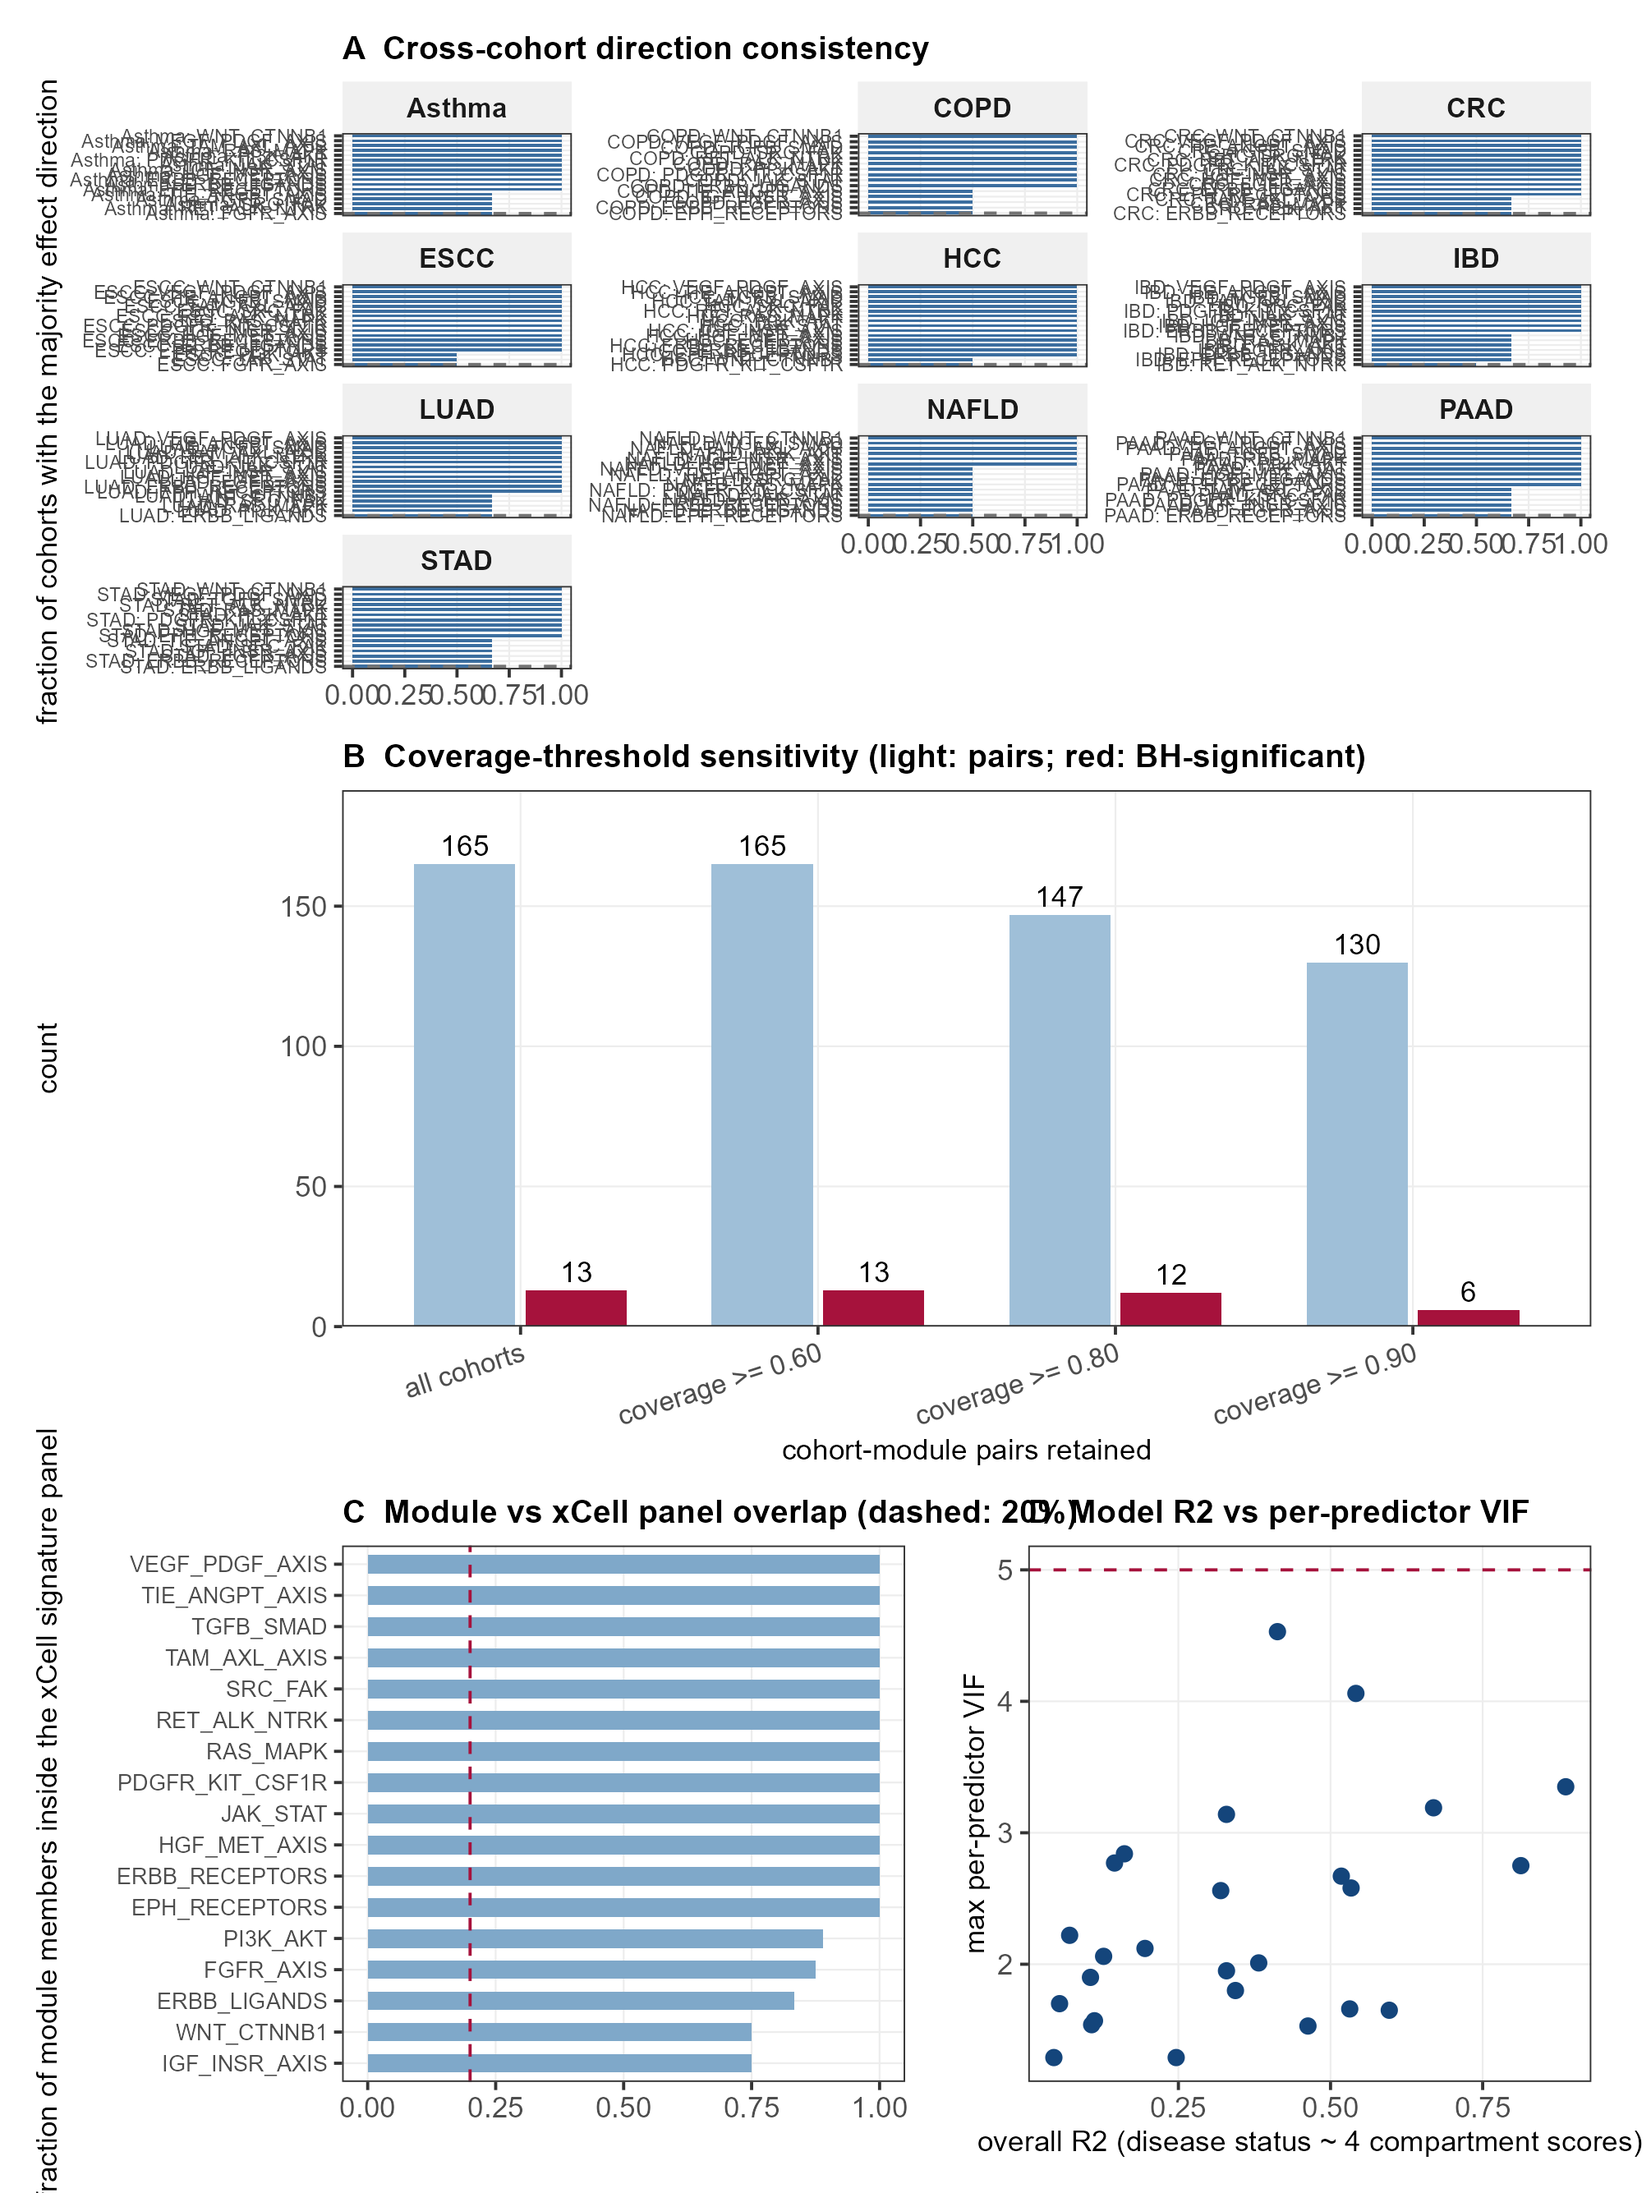
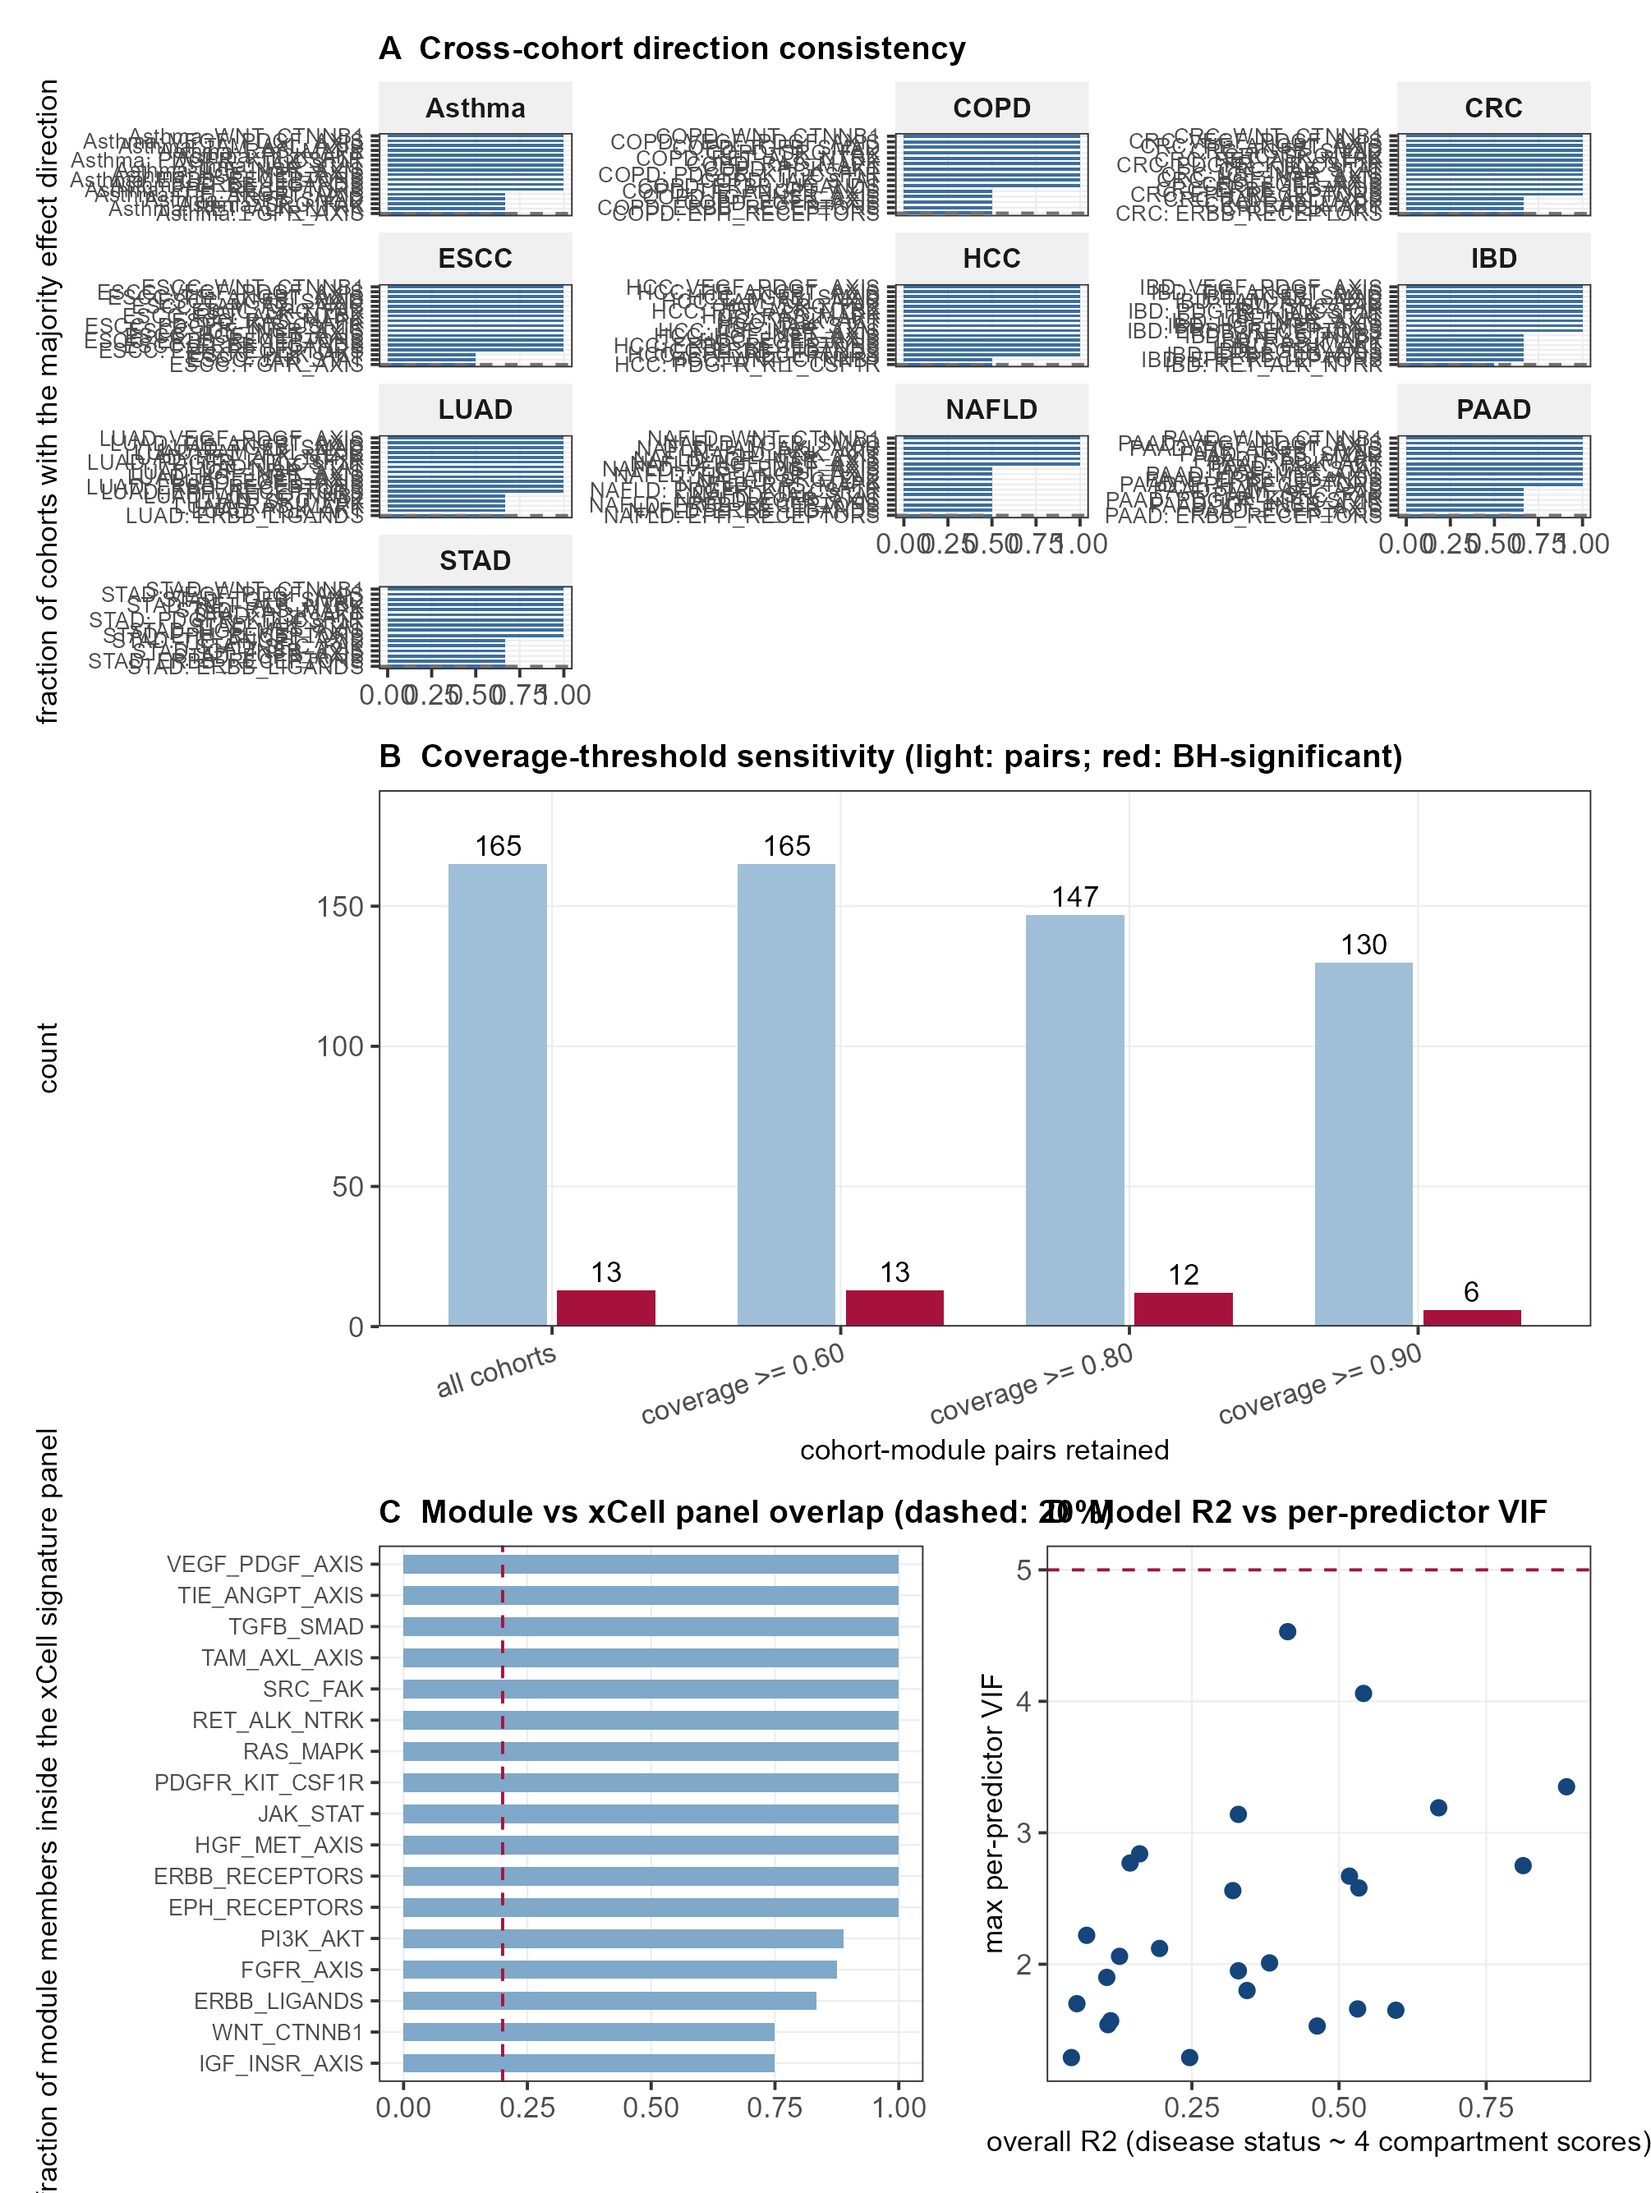
v13.1: fixes from three independent cold reviews - sorted medians, harmonised mutation denominators, CELLxGENE verification record corrected, two-pass checksums (LF, sha256sum -c clean), example 2 made runnable with regenerated expected output, score-level reproducibility table, package self-suffici

diff --git a/manuscript/DataDescriptor_v13.md b/manuscript/DataDescriptor_v13.md
@@ -20,7 +20,7 @@ This resource performs that curation once, documents it, and quantifies how far 
 *Validation rules and thresholds.* Reported checks use explicit rules (Supplementary Table S5): common-gene sensitivity uses the module members present in every cohort, flags a module when the effect direction disagrees with full-member scoring in at least 20% of cohorts, and marks it not scorable when fewer than two members are shared, with modules sharing only two members flagged as low-information; proportional hazards is assessed with scaled Schoenfeld residuals in the age-adjusted model and flagged at p<0.05; exact reproduction means an absolute difference of zero in the recomputed statistic, whereas rank agreement is reported as a Spearman correlation and is never described as exact reproduction.
 
 **Data Records**
-The resource is deposited in Zenodo ([DOI to be inserted after Zenodo deposit]) and organised as ten folders: 01 cohort registry, provenance and source versions; 02 sample annotation; 03 expression provenance with the mapping and transformation log; 04 module definitions, coverage and per-sample scores; 05 composition scores with sample keys, join audit and signature overlap; 06 single-cell dataset audit, labels and donor-aware comparisons; 07 the complete estimates layer, including not-estimable and not-testable results; 08 quality-control records, validation evidence and the curation flow; 09 runnable reuse examples with expected outputs and a shipped demo matrix; 10 environment, run order and versioning. A file inventory with row counts and SHA-256 checksums is shipped (69 files); the estimates layer contains 442 cohort-module rows (434 estimated, 8 not estimable with reasons). Figure legends are provided as a separate document; Tables 1 and Supplementary Tables S1-S9 are separate files.
+The resource is deposited in Zenodo ([DOI to be inserted after Zenodo deposit]) and organised as ten folders: 01 cohort registry, provenance and source versions; 02 sample annotation; 03 expression provenance with the mapping and transformation log; 04 module definitions, coverage and per-sample scores; 05 composition scores with sample keys, join audit and signature overlap; 06 single-cell dataset audit, labels and donor-aware comparisons; 07 the complete estimates layer, including not-estimable and not-testable results; 08 quality-control records, validation evidence and the curation flow; 09 runnable reuse examples with expected outputs and a shipped demo matrix; 10 environment, run order and versioning. A file inventory with row counts and SHA-256 checksums is shipped (72 files); the estimates layer contains 442 cohort-module rows (434 estimated, 8 not estimable with reasons). Figure legends are provided as a separate document; Tables 1 and Supplementary Tables S1-S9 are separate files.
 
 **Technical Validation**
 Coverage and composition of the resource are shown in Figure 1; the validation evidence is shown in Figures 2 and 3. Sample identity: no sample identifier is duplicated across the 26 case-control cohorts, and every sample in the annotation resolves to a registry entry. Design: pairing is metadata-derived (15 paired cohorts) and the 9 cohorts without patient identifiers are analysed unpaired and flagged. Histology and mutation layer: the oesophageal layer is restricted to squamous histology (96 patients), where TP53 is reported mutated in 86 patients (89.58%), EGFR in 2 (2.08%), and neither KRAS nor ERBB2 in any patient of the profiled list; EGFR high-level amplification is present in 14 of 96 copy-number-profiled squamous patients (14.58%, with gain or amplification in 64, 66.67%). Exact reproduction: the 49 cohort-module effects and their standard errors of three independently recomputed bulk cohorts agreed with the shipped values to a maximum absolute difference of 0 (3 cohorts; sample-level scores Spearman 1.00); refitting the Cox models from the shipped patient scores reproduced all 68 shipped hazard ratios with a maximum absolute difference of 0 (LUAD, CRC and squamous oesophageal contexts, univariable and age-plus-stage). Rank agreement (not exact reproduction): rebuilding the TCGA patient-level scores from the gene-level table reproduced the shipped scores in rank order (Spearman 0.95-0.98 across 20,451 patient-module pairs), the residual absolute differences arising from the aggregation order, which is now stated explicitly in Methods. Composition: independently recomputed xCell compartment scores agreed with the shipped values (Pearson 0.71-0.95, Spearman 0.48-0.94). Comparability: across the 165 context-module pairs with at least two cohorts, 112 (68%) have effects of the same sign in every contributing cohort, and the number of pooled states surviving BH control changes from 13 with all cohorts to 13 at coverage 0.60, 12 at 0.80 and 6 at 0.90 (k = 165 to 130 pairs), so comparability degrades gradually with coverage rather than being an all-or-nothing property. Survival layer: proportional hazards was not violated for any of the 17 tested module features, which is evidence of absence of a detectable violation rather than proof that the assumption holds. Single-cell: 240 comparisons are shipped (168 tumour-versus-adjacent, 40 case-versus-healthy, 32 cell-identity), each labelled with the test actually used (72 paired by donor, 56 donor-disjoint unpaired, 32 cell-identity contrasts, 80 reported as not testable); 37 comparisons reach FDR below 0.05 within their context x module x comparison-type family and are descriptive rather than validated biology. Module scores are expression-derived and do not measure phosphorylation or pathway activity. Module coverage flags: FGFR_AXIS, JAK_STAT, SRC_FAK show direction disagreement in at least 20% of cohorts and TAM_AXL_AXIS, TIE_ANGPT_AXIS have too few shared members to re-score.
